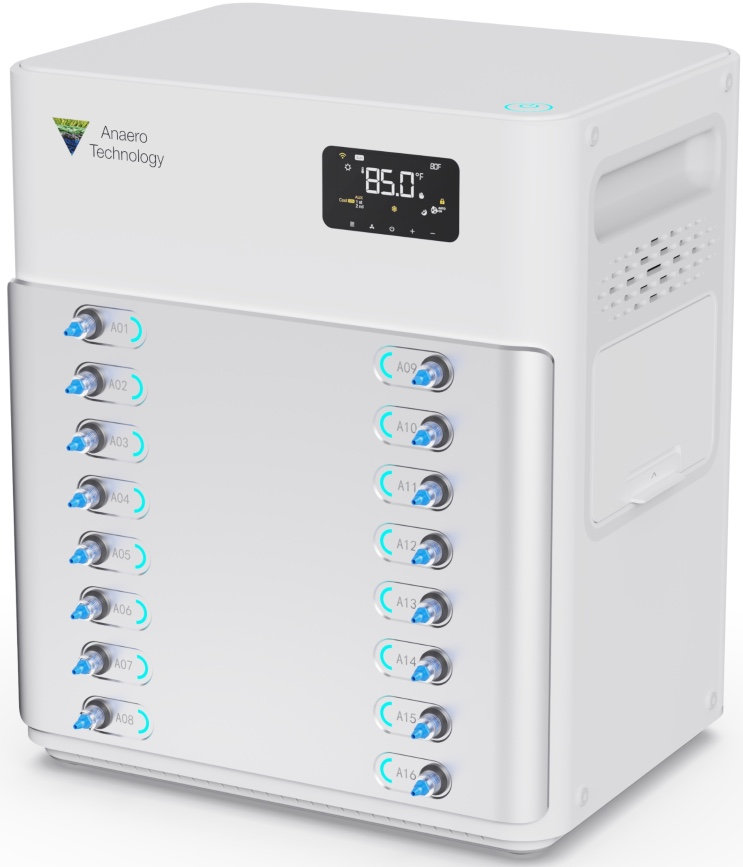
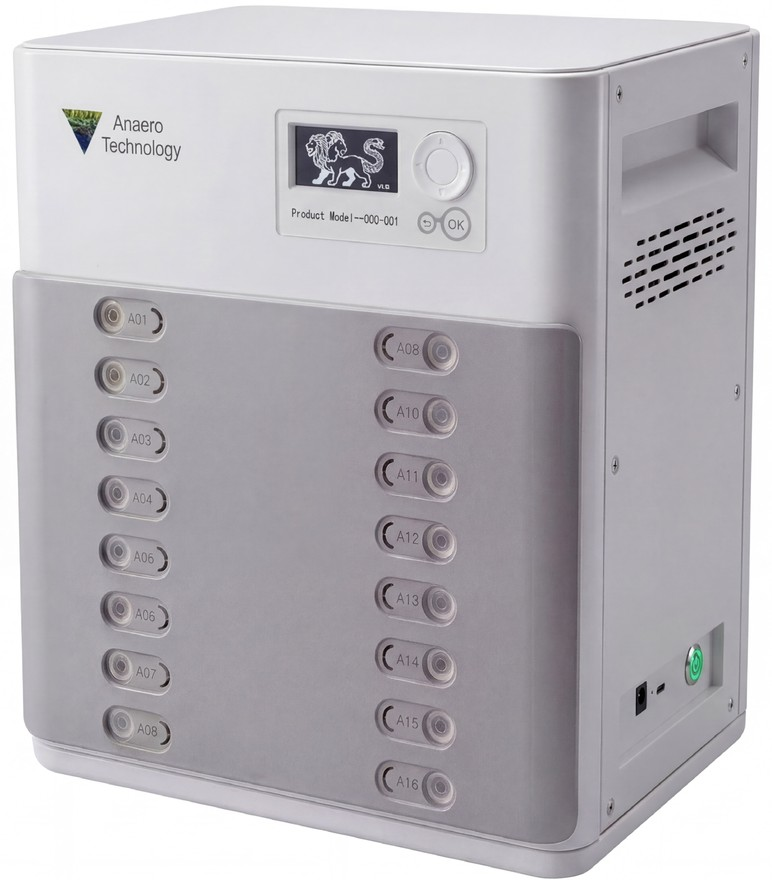
Add a PLC device-card photo and refresh the Chimera one
The dashboard had no image for PLCs — the card's image prop was an inline
ternary that fell through to the Chimera photo for any non-BlackBox device,
so a connected PLC showed a picture of a gas monitor.

Replace the ternary with a deviceImage() helper alongside the existing
deviceTitle() it mirrors, and add plc.jpeg for it to return.

Both assets are prepared the same way: cropped to the device (the sources
have wide empty margins), scaled to 880px tall, JPEG. The PLC photo also
needed its studio backdrop lifted from ~#e0e0e0 to pure white — the card
composites images with mix-blend-multiply, so a grey backdrop multiplies
into a visible grey box behind the device. The Chimera render was already
on white and needed no such correction.

Sizes: plc.jpeg 51K, chimera.jpg 82K (was 89K).

diff --git a/frontend/src/view/dashboard.jsx b/frontend/src/view/dashboard.jsx
@@ -2,6 +2,7 @@ import React, { useState, useEffect, useRef } from "react";
 import DeviceCard from '../components/deviceCard'
 import GFM from '../assets/gfm.png'
 import Chimera from "../assets/chimera.jpg"
+import Plc from "../assets/plc.jpeg"
 import { RefreshCw, Server, FlaskConical, Loader2, TriangleAlert } from 'lucide-react';
 import { useAuth } from '../components/AuthContext';
 import { useTranslation } from 'react-i18next';
@@ -598,6 +599,11 @@ function Dashboard({ onViewPlot }) {
     if (deviceType === 'plc') return 'PLC'
     return 'Chimera'
   }
+  const deviceImage = (deviceType) => {
+    if (deviceType === 'black-box') return GFM
+    if (deviceType === 'plc') return Plc
+    return Chimera
+  }
 
   const runningTests = activeTests?.length || 0;
 
@@ -776,7 +782,7 @@ function Dashboard({ onViewPlot }) {
                       name={device.name}
                       logging={device.logging}
                       port={device.port}
-                      image={device.device_type === "black-box" ? GFM : Chimera}
+                      image={deviceImage(device.device_type)}
                       activeTestName={device.active_test_name}
                       activeTestId={device.active_test_id}
                       testStartTime={device.test_start_time}
@@ -813,7 +819,7 @@ function Dashboard({ onViewPlot }) {
                     name={device.name}
                     logging={device.logging}
                     port={device.port}
-                    image={device.device_type === "black-box" ? GFM : Chimera}
+                    image={deviceImage(device.device_type)}
                     onNameUpdate={handleNameUpdate}
                     onViewPlot={onViewPlot}
                     onViewFiles={handleViewFiles}
